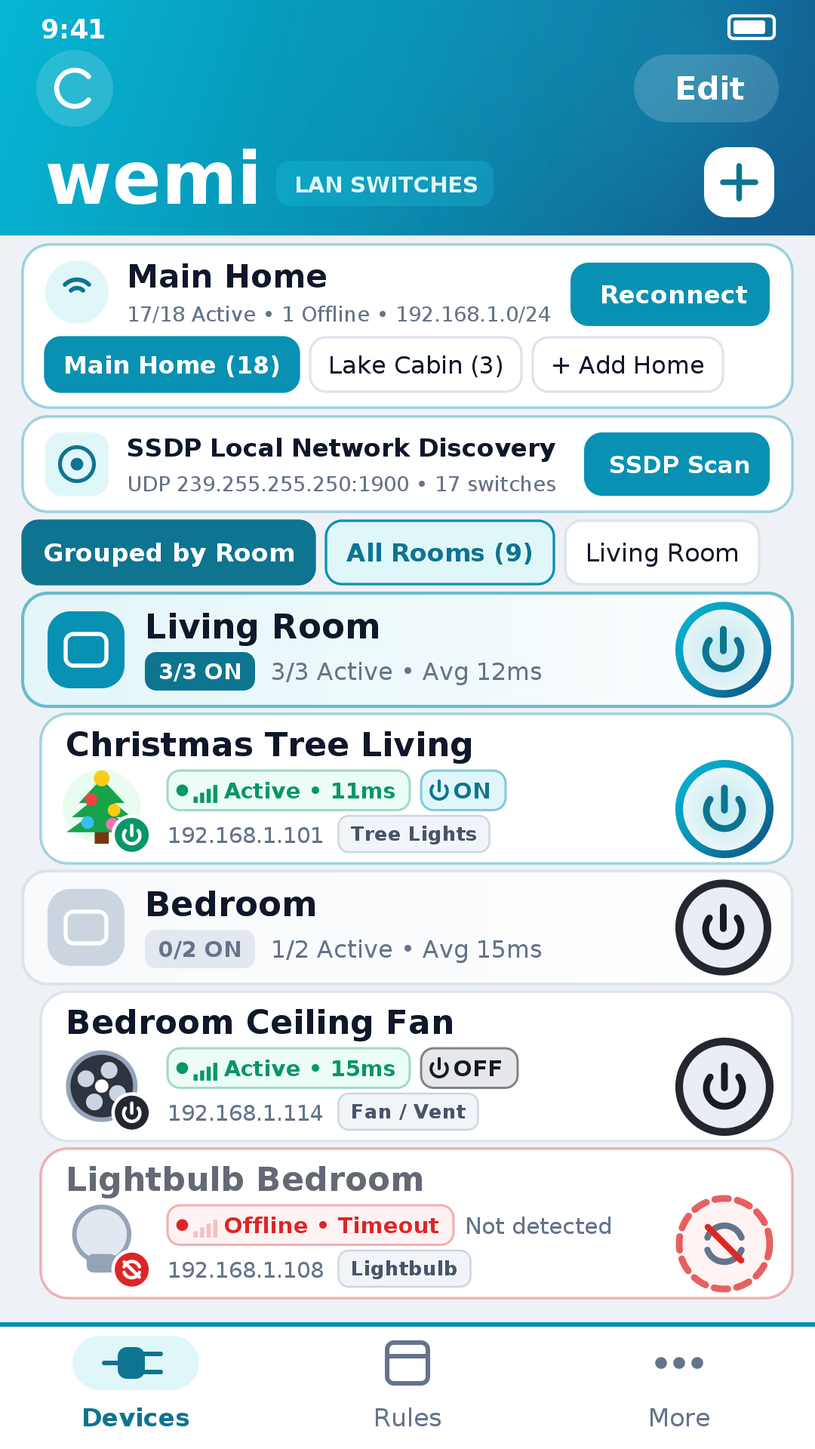
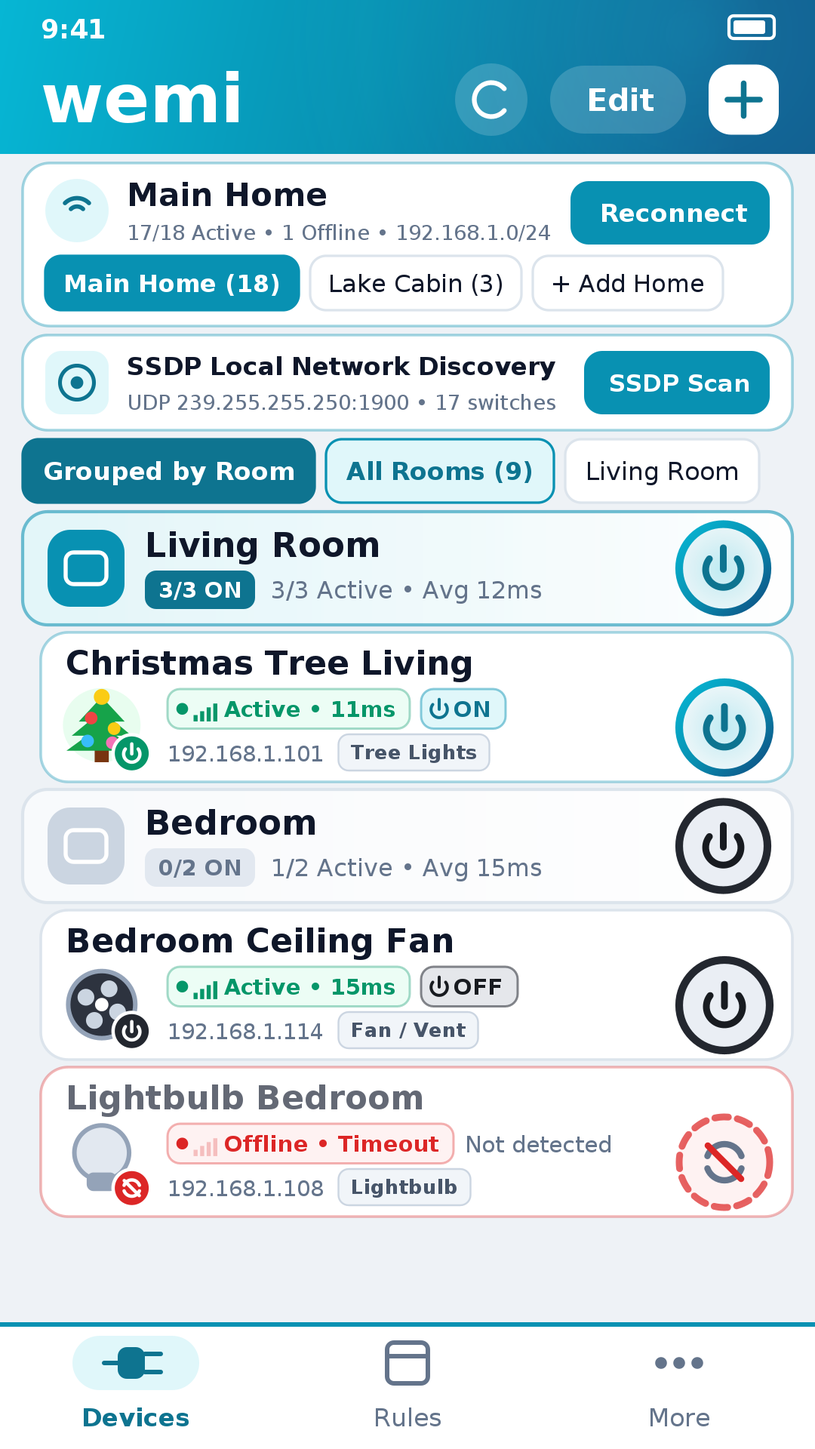
build: bump version to v23.0 and optimize UI header
- Increment version to v23.0 across documentation
- Refactor top header to a compact single-row layout
- Configure custom Robolectric dependency repo for unit tests

diff --git a/app/src/main/java/org/suppressingfire/wemi/ui/components/HeaderAndNav.kt b/app/src/main/java/org/suppressingfire/wemi/ui/components/HeaderAndNav.kt
@@ -116,77 +116,20 @@ fun TopHeader(
                 )
             }
             .windowInsetsPadding(WindowInsets.statusBars)
-            .padding(horizontal = 16.dp, vertical = 10.dp)
+            .padding(horizontal = 14.dp, vertical = 6.dp)
     ) {
-        // Top Row: Refresh button on left, TV Remote Mode + Edit pills on right
+        // Single compact row: "wemi" wordmark on left; Refresh, Edit/Done, and "+" buttons on right
         Row(
             modifier = Modifier.fillMaxWidth(),
             horizontalArrangement = Arrangement.SpaceBetween,
             verticalAlignment = Alignment.CenterVertically
         ) {
-            IconButton(
-                onClick = onRefreshClick,
-                modifier = Modifier
-                    .size(48.dp)
-                    .clip(CircleShape)
-                    .background(Color.White.copy(alpha = 0.14f))
-                    .testTag("refresh_devices_button")
-            ) {
-                Icon(
-                    imageVector = Icons.Default.Refresh,
-                    contentDescription = stringResource(R.string.action_refresh),
-                    tint = Color.White,
-                    modifier = Modifier
-                        .size(26.dp)
-                        .rotate(if (isRefreshing) rotation else 0f)
-                )
-            }
-
             Row(
                 verticalAlignment = Alignment.CenterVertically,
-                horizontalArrangement = Arrangement.spacedBy(8.dp)
-            ) {
-                Surface(
-                    shape = RoundedCornerShape(20.dp),
-                    color = if (isEditMode) Color.White else Color.White.copy(alpha = 0.16f),
-                    modifier = Modifier
-                        .minimumInteractiveComponentSize()
-                        .clip(RoundedCornerShape(20.dp))
-                        .clickable(onClick = onEditClick)
-                        .testTag("edit_devices_button")
-                ) {
-                    Box(
-                        contentAlignment = Alignment.Center,
-                        modifier = Modifier.padding(horizontal = 16.dp, vertical = 6.dp)
-                    ) {
-                        Text(
-                            text = if (isEditMode) stringResource(R.string.action_done) else stringResource(R.string.action_edit),
-                            color = if (isEditMode) WemoGreenBottom else Color.White,
-                            fontFamily = FontFamily.SansSerif,
-                            fontWeight = FontWeight.Medium,
-                            fontSize = 16.sp
-                        )
-                    }
-                }
-            }
-        }
-
-        Spacer(modifier = Modifier.height(6.dp))
-
-        // Second Row: "wemi" wordmark + subtitle on left, glowing cyan/white "+" button on right
-        Row(
-            modifier = Modifier
-                .fillMaxWidth()
-                .padding(start = 4.dp, end = 4.dp, bottom = 4.dp),
-            horizontalArrangement = Arrangement.SpaceBetween,
-            verticalAlignment = Alignment.CenterVertically
-        ) {
-            Row(
-                verticalAlignment = Alignment.Bottom,
                 modifier = Modifier
                     .clip(RoundedCornerShape(6.dp))
                     .clickable(onClick = onWordmarkClick)
-                    .padding(horizontal = 4.dp)
+                    .padding(horizontal = 4.dp, vertical = 2.dp)
                     .testTag("brand_wordmark_text")
             ) {
                 Text(
@@ -198,47 +141,78 @@ fun TopHeader(
                     color = Color.White,
                     fontFamily = FontFamily.SansSerif,
                     fontWeight = FontWeight.Bold,
-                    fontSize = 35.sp,
+                    fontSize = 32.sp,
                     letterSpacing = (-0.8).sp
                 )
-                Spacer(modifier = Modifier.width(10.dp))
-                Surface(
-                    color = Color(0x3322D3EE),
-                    shape = RoundedCornerShape(6.dp),
-                    modifier = Modifier.padding(bottom = 6.dp)
-                ) {
-                    Text(
-                        text = "LAN SWITCHES",
-                        color = Color(0xFFE0F7FA),
-                        fontFamily = FontFamily.SansSerif,
-                        fontWeight = FontWeight.SemiBold,
-                        fontSize = 10.sp,
-                        letterSpacing = 0.8.sp,
-                        modifier = Modifier.padding(horizontal = 7.dp, vertical = 3.dp)
-                    )
-                }
             }
 
-            Box(
-                modifier = Modifier
-                    .minimumInteractiveComponentSize()
-                    .clickable(onClick = onAddClick)
-                    .testTag("add_device_button"),
-                contentAlignment = Alignment.Center
+            Row(
+                verticalAlignment = Alignment.CenterVertically,
+                horizontalArrangement = Arrangement.spacedBy(6.dp)
             ) {
-                Surface(
-                    shape = RoundedCornerShape(10.dp),
-                    color = Color.White,
-                    shadowElevation = 2.dp,
-                    modifier = Modifier.size(34.dp)
+                IconButton(
+                    onClick = onRefreshClick,
+                    modifier = Modifier
+                        .minimumInteractiveComponentSize()
+                        .size(38.dp)
+                        .clip(CircleShape)
+                        .background(Color.White.copy(alpha = 0.16f))
+                        .testTag("refresh_devices_button")
                 ) {
-                    Box(contentAlignment = Alignment.Center) {
-                        Icon(
-                            imageVector = Icons.Default.Add,
-                            contentDescription = stringResource(R.string.action_add_device),
-                            tint = WemoGreenDark,
-                            modifier = Modifier.size(24.dp)
+                    Icon(
+                        imageVector = Icons.Default.Refresh,
+                        contentDescription = stringResource(R.string.action_refresh),
+                        tint = Color.White,
+                        modifier = Modifier
+                            .size(22.dp)
+                            .rotate(if (isRefreshing) rotation else 0f)
+                    )
+                }
+
+                Surface(
+                    shape = RoundedCornerShape(18.dp),
+                    color = if (isEditMode) Color.White else Color.White.copy(alpha = 0.16f),
+                    modifier = Modifier
+                        .minimumInteractiveComponentSize()
+                        .clip(RoundedCornerShape(18.dp))
+                        .clickable(onClick = onEditClick)
+                        .testTag("edit_devices_button")
+                ) {
+                    Box(
+                        contentAlignment = Alignment.Center,
+                        modifier = Modifier.padding(horizontal = 14.dp, vertical = 6.dp)
+                    ) {
+                        Text(
+                            text = if (isEditMode) stringResource(R.string.action_done) else stringResource(R.string.action_edit),
+                            color = if (isEditMode) WemoGreenBottom else Color.White,
+                            fontFamily = FontFamily.SansSerif,
+                            fontWeight = FontWeight.Medium,
+                            fontSize = 15.sp
                         )
+                    }
+                }
+
+                Box(
+                    modifier = Modifier
+                        .minimumInteractiveComponentSize()
+                        .clickable(onClick = onAddClick)
+                        .testTag("add_device_button"),
+                    contentAlignment = Alignment.Center
+                ) {
+                    Surface(
+                        shape = RoundedCornerShape(10.dp),
+                        color = Color.White,
+                        shadowElevation = 2.dp,
+                        modifier = Modifier.size(34.dp)
+                    ) {
+                        Box(contentAlignment = Alignment.Center) {
+                            Icon(
+                                imageVector = Icons.Default.Add,
+                                contentDescription = stringResource(R.string.action_add_device),
+                                tint = WemoGreenDark,
+                                modifier = Modifier.size(24.dp)
+                            )
+                        }
                     }
                 }
             }

diff --git a/scripts/GeneratePlayStoreAssets.java b/scripts/GeneratePlayStoreAssets.java
@@ -275,7 +275,7 @@ public class GeneratePlayStoreAssets {
     }
 
     private static int drawTopHeader(Graphics2D g, int w, double s, boolean isEdit) {
-        int headerH = (int) (104 * s);
+        int headerH = (int) (68 * s);
         LinearGradientPaint lg = new LinearGradientPaint(
             new Point2D.Double(0, 0),
             new Point2D.Double(w * 0.9, headerH),
@@ -301,45 +301,16 @@ public class GeneratePlayStoreAssets {
         fillRoundRect(g, w - 38 * s, 7 * s, 20 * s, 10 * s, 2 * s, null, C_WHITE, 1.4 * s);
         fillRoundRect(g, w - 36 * s, 9 * s, 14 * s, 6 * s, 1 * s, C_WHITE, null, 0);
 
-        // Row 1: Left Refresh circle button (48dp), Right Edit pill (NO TV toggle button!)
-        double yR1 = 22 * s;
-        double btnR = 17 * s;
-        double cxRef = 16 * s + btnR;
-        double cyRef = yR1 + btnR;
-        g.setColor(new Color(255, 255, 255, 38));
-        g.fill(new Ellipse2D.Double(cxRef - btnR, cyRef - btnR, btnR * 2, btnR * 2));
+        // Single compact row: 'wemi' wordmark on left; Refresh, Edit/Done, and white '+' button on right
+        double cy = 44 * s;
         g.setColor(C_WHITE);
-        g.setStroke(new BasicStroke((float) (2.2 * s), BasicStroke.CAP_ROUND, BasicStroke.JOIN_ROUND));
-        double ar = 8.0 * s;
-        g.draw(new Arc2D.Double(cxRef - ar, cyRef - ar, ar * 2, ar * 2, 40, 280, Arc2D.OPEN));
+        g.setFont(fBrand(30 * s, Font.BOLD));
+        g.drawString("wemi", (int) (18 * s), (int) (cy + 10 * s));
 
-        // Right Edit pill
-        double editW = 64 * s;
-        double editH = 30 * s;
-        double ex0 = w - 16 * s - editW;
-        double ey0 = cyRef - editH / 2.0;
-        fillRoundRect(g, ex0, ey0, editW, editH, 15 * s, isEdit ? C_WHITE : new Color(255, 255, 255, 42), null, 0);
-        g.setColor(isEdit ? C_SAPPHIRE_BOT : C_WHITE);
-        g.setFont(fUi(14.0 * s, Font.BOLD));
-        g.drawString(isEdit ? "Done" : "Edit", (int) (ex0 + 18 * s), (int) (ey0 + 20 * s));
-
-        // Row 2: 'wemi' wordmark + 'LAN SWITCHES' pill on left, white '+' button on right
-        double yR2 = 90 * s;
-        g.setColor(C_WHITE);
-        g.setFont(fBrand(32 * s, Font.BOLD));
-        g.drawString("wemi", (int) (20 * s), (int) yR2);
-
-        double px0 = 122 * s;
-        double py0 = yR2 - 19 * s;
-        fillRoundRect(g, px0, py0, 96 * s, 20 * s, 6 * s, new Color(0x22, 0xD3, 0xEE, 58), null, 0);
-        g.setColor(C_CYAN_SOFT);
-        g.setFont(fUi(9.5 * s, Font.BOLD));
-        g.drawString("LAN SWITCHES", (int) (px0 + 8 * s), (int) (py0 + 14 * s));
-
-        // White '+' button on right
+        // White '+' button on far right
         double addSz = 31 * s;
-        double ax0 = w - 18 * s - addSz;
-        double ay0 = yR2 - 25 * s;
+        double ax0 = w - 16 * s - addSz;
+        double ay0 = cy - addSz / 2.0;
         fillRoundRect(g, ax0, ay0, addSz, addSz, 10 * s, C_WHITE, null, 0);
         g.setColor(C_TEAL_DARK);
         g.setStroke(new BasicStroke((float) (2.5 * s), BasicStroke.CAP_ROUND, BasicStroke.JOIN_ROUND));
@@ -348,6 +319,27 @@ public class GeneratePlayStoreAssets {
         double arm = 7.2 * s;
         g.draw(new Line2D.Double(acx - arm, acy, acx + arm, acy));
         g.draw(new Line2D.Double(acx, acy - arm, acx, acy + arm));
+
+        // Edit / Done pill to the left of '+'
+        double editW = 60 * s;
+        double editH = 30 * s;
+        double ex0 = ax0 - 10 * s - editW;
+        double ey0 = cy - editH / 2.0;
+        fillRoundRect(g, ex0, ey0, editW, editH, 15 * s, isEdit ? C_WHITE : new Color(255, 255, 255, 42), null, 0);
+        g.setColor(isEdit ? C_SAPPHIRE_BOT : C_WHITE);
+        g.setFont(fUi(13.5 * s, Font.BOLD));
+        g.drawString(isEdit ? "Done" : "Edit", (int) (ex0 + 16 * s), (int) (ey0 + 20 * s));
+
+        // Refresh circle button to the left of Edit pill
+        double btnR = 16 * s;
+        double cxRef = ex0 - 10 * s - btnR;
+        double cyRef = cy;
+        g.setColor(new Color(255, 255, 255, 42));
+        g.fill(new Ellipse2D.Double(cxRef - btnR, cyRef - btnR, btnR * 2, btnR * 2));
+        g.setColor(C_WHITE);
+        g.setStroke(new BasicStroke((float) (2.1 * s), BasicStroke.CAP_ROUND, BasicStroke.JOIN_ROUND));
+        double ar = 7.5 * s;
+        g.draw(new Arc2D.Double(cxRef - ar, cyRef - ar, ar * 2, ar * 2, 40, 280, Arc2D.OPEN));
 
         return headerH;
     }

diff --git a/IMPLEMENTED.md b/IMPLEMENTED.md
@@ -1,7 +1,7 @@
 # WeMi Light Control — Implemented Features & Change Log (`IMPLEMENTED.md`)
 
 **Repository**: `MichaelRHead/WeMi-light-control` (`org.suppressingfire.wemi` / `com.aistudio.wemiswitch.kxpqzr`)  
-**Current Version**: `v22.0` (`versionCode = 22`)  
+**Current Version**: `v23.0` (`versionCode = 23`)  
 **Target Platforms**: Android Phones, Tablets, and Android TV (`UI_MODE_TYPE_TELEVISION` 10-foot D-Pad interface)
 
 Related documentation:
@@ -12,7 +12,7 @@ Related documentation:
 - [`LICENSE_GOVERNANCE.md`](LICENSE_GOVERNANCE.md) — Open-Source MIT License Parity, Minimal Permissive Dependency Policy (`Apache-2.0` AndroidX/Kotlin Only; Zero External HTTP/Font Bloat) & Brand/Trademark Governance *(Owned Exclusively by the Antigravity License & Brand Governance Agent)*
 - [`USER_GUIDE.md`](USER_GUIDE.md) — User Guide Index & Detailed Feature Guides ([`docs/user-guide/`](docs/user-guide/))
 - [`RELEASE_PROCESS.md`](RELEASE_PROCESS.md) & [`RELEASE_SIGN_OFF.md`](RELEASE_SIGN_OFF.md) — 5-Agent Autonomous Round-Robin Release Review Process & Live Sign-Off State Machine
-- [`docs/user-guide/release-notes.md`](docs/user-guide/release-notes.md) — User-Facing Google Play Store Release Notes (`v1.0` → `v22.0`)
+- [`docs/user-guide/release-notes.md`](docs/user-guide/release-notes.md) — User-Facing Google Play Store Release Notes (`v1.0` → `v23.0`)
 - [`UPCOMING_FEATURES.md`](UPCOMING_FEATURES.md) — Upcoming Features & Next-Iteration Roadmap
 - [`AGENTS.md`](AGENTS.md) — Architecture & Agent Guide
 - [`.agents/skills/wemi-release-coordinator/SKILL.md`](.agents/skills/wemi-release-coordinator/SKILL.md) — 5-Agent Autonomous Round-Robin Release Review & Sign-Off Coordinator Skill
@@ -36,6 +36,7 @@ Related documentation:
 
 | Landed (PST) | Version / Commit | Feature or Improvement | Primary Files |
 | :--- | :--- | :--- | :--- |
+| **2026-11-10 20:26 PST** | `v23.0` | **Compact Single-Row `TopHeader` (`HeaderAndNav.kt`): Moved `Refresh` & `Edit` Buttons Down Alongside the `wemi` Wordmark & `+` Button and Removed Redundant `"LAN SWITCHES"` Badge to Maximize Vertical Screen Space** | [`HeaderAndNav.kt`](app/src/main/java/org/suppressingfire/wemi/ui/components/HeaderAndNav.kt), [`scripts/GeneratePlayStoreAssets.java`](scripts/GeneratePlayStoreAssets.java), [`UX_DESIGN.md`](UX_DESIGN.md), [`docs/user-guide/release-notes.md`](docs/user-guide/release-notes.md), [`play_store_assets/RELEASE_NOTES.txt`](play_store_assets/RELEASE_NOTES.txt) |
 | **2026-11-10 13:19 PST** | `v22.0` | **Mandatory Agent Commit Description Attribution Skill (`agent-commit-attribution`), Helper & Hook Validator Scripts (`commit_as_agent.sh`, `validate_commit_msg.sh`) & Attributed Release State-Machine Commits (`scripts/advance_release_turn.sh`)** | [`.agents/skills/agent-commit-attribution/SKILL.md`](.agents/skills/agent-commit-attribution/SKILL.md), [`.agents/skills/agent-commit-attribution/scripts/commit_as_agent.sh`](.agents/skills/agent-commit-attribution/scripts/commit_as_agent.sh), [`.agents/skills/agent-commit-attribution/scripts/validate_commit_msg.sh`](.agents/skills/agent-commit-attribution/scripts/validate_commit_msg.sh), [`scripts/advance_release_turn.sh`](scripts/advance_release_turn.sh), [`AGENTS.md`](AGENTS.md), [`RELEASE_PROCESS.md`](RELEASE_PROCESS.md), [`.agents/skills/multi-agent-git-sync/SKILL.md`](.agents/skills/multi-agent-git-sync/SKILL.md) |
 | **2026-11-10 13:06 PST** | `v22.0` (`19247b4`) | **Multi-Agent Anti-Stomp Sync: Removed Orphaned `res/font/*.ttf` Files Left by AI Studio Sync, Restored `97d422e` Minimal-Dependency & Zero-`OkHttp`/`pywemo` Governance Gates (`LicenseAndBrandGovernanceTest.kt`), Updated `LICENSE_GOVERNANCE.md` & `wemi-license-governance` for Pure `MIT` + `Apache-2.0` Runtime, and Restored `+x` Script Permissions (`30/30` Passing)** | [`LicenseAndBrandGovernanceTest.kt`](app/src/test/java/org/suppressingfire/wemi/LicenseAndBrandGovernanceTest.kt), [`MoreScreen.kt`](app/src/main/java/org/suppressingfire/wemi/ui/screens/MoreScreen.kt), [`LICENSE_GOVERNANCE.md`](LICENSE_GOVERNANCE.md), [`.agents/skills/wemi-license-governance/SKILL.md`](.agents/skills/wemi-license-governance/SKILL.md), [`docs/user-guide/more-and-tv-mode.md`](docs/user-guide/more-and-tv-mode.md), [`docs/user-guide/release-notes.md`](docs/user-guide/release-notes.md), [`gradlew`](gradlew), [`scripts/advance_release_turn.sh`](scripts/advance_release_turn.sh), [`scripts/await_release_turn.sh`](scripts/await_release_turn.sh) |
 | **2026-11-10 12:52 PST** | `v22.0` (`b458fca`, `084def5`) | **Replaced Custom `Comfortaa` & `Work Sans` Font Families Across All UI Screens & Play Store Asset Generator with Platform `FontFamily.SansSerif` (`Type.kt`)** | [`Type.kt`](app/src/main/java/org/suppressingfire/wemi/ui/theme/Type.kt), [`MainActivity.kt`](app/src/main/java/org/suppressingfire/wemi/MainActivity.kt), [`MoreScreen.kt`](app/src/main/java/org/suppressingfire/wemi/ui/screens/MoreScreen.kt), [`DevicesTabScreen.kt`](app/src/main/java/org/suppressingfire/wemi/ui/screens/DevicesTabScreen.kt), [`RulesScreen.kt`](app/src/main/java/org/suppressingfire/wemi/ui/screens/RulesScreen.kt), [`scripts/GeneratePlayStoreAssets.java`](scripts/GeneratePlayStoreAssets.java), [`play_store_assets/`](play_store_assets/) |
@@ -91,6 +92,13 @@ Related documentation:
 ---
 
 ## 2. Detailed Change Log (Newest to Oldest)
+
+### [2026-11-10 20:26 PST] — Compact Single-Row `TopHeader` (`HeaderAndNav.kt`): Moved `Refresh` & `Edit` Alongside `wemi` Wordmark & Removed `"LAN SWITCHES"` Badge (`v23.0`)
+- **Single-Row Top Header Consolidation ([`HeaderAndNav.kt`](app/src/main/java/org/suppressingfire/wemi/ui/components/HeaderAndNav.kt), [`scripts/GeneratePlayStoreAssets.java`](scripts/GeneratePlayStoreAssets.java))**:
+  - Removed the redundant `"LAN SWITCHES"` subtitle badge next to the `wemi` wordmark and moved the `Refresh` (`refresh_devices_button`) and `Edit` / `Done` (`edit_devices_button`) controls down into the same horizontal header row alongside the `wemi` wordmark (`brand_wordmark_text`) and `+` button (`add_device_button`).
+  - Reclaims ~54dp of vertical screen real estate above the fold on phones and tablets while preserving all `48.dp` `minimumInteractiveComponentSize()` accessibility touch targets and semantic `testTag` identifiers, and regenerated all 21 Play Store & in-app PNG screenshots to match.
+
+---
 
 ### [2026-11-10 13:19 PST] — Mandatory Agent Commit Description Attribution Skill (`agent-commit-attribution`), Helper/Hook Scripts & Attributed Release Commits (`v22.0`)
 - **Shared `agent-commit-attribution` Skill & Validator/Helper Scripts ([`.agents/skills/agent-commit-attribution/SKILL.md`](.agents/skills/agent-commit-attribution/SKILL.md), [`commit_as_agent.sh`](.agents/skills/agent-commit-attribution/scripts/commit_as_agent.sh), [`validate_commit_msg.sh`](.agents/skills/agent-commit-attribution/scripts/validate_commit_msg.sh))**:

diff --git a/docs/user-guide/release-notes.md b/docs/user-guide/release-notes.md
@@ -4,17 +4,18 @@
 
 Welcome to the official user-facing **Release Notes** for **WeMi Light Control** (`com.aistudio.wemiswitch.kxpqzr`) on Google Play for Android Phones, Tablets, and Android TV.
 
-Unlike our developer engineering log ([`IMPLEMENTED.md`](../../IMPLEMENTED.md)), this guide provides a clear, high-level summary of the **major user-facing features, visual improvements, and reliability upgrades** introduced in each Google Play Store release—from our latest release (**`v22.0`**) all the way back to **`v1.0`**.
+Unlike our developer engineering log ([`IMPLEMENTED.md`](../../IMPLEMENTED.md)), this guide provides a clear, high-level summary of the **major user-facing features, visual improvements, and reliability upgrades** introduced in each Google Play Store release—from our latest release (**`v23.0`**) all the way back to **`v1.0`**.
 
 For step-by-step instructions on using any feature mentioned below, visit the **[WeMi Light Control User Guide (`USER_GUIDE.md`)](../../USER_GUIDE.md)**.
 
 ---
 
-## Quick Release Summary (`v1.0` → `v22.0`)
+## Quick Release Summary (`v1.0` → `v23.0`)
 
 | Version | Play Store `versionCode` | Release Date | Headline User-Facing Additions |
 | :--- | :---: | :--- | :--- |
-| **[`v22.0`](#version-220-versioncode--22--november-10-2026)** | `22` | Nov 10, 2026 | Refreshed Google Play Store & in-app visual showcase across Phone, 7"/10" Tablets & Android TV matching the live Ocean Teal, Electric Cyan & Deep Sapphire UI, auto-shrinking switch titles & 3-state power/reconnect rings |
+| **[`v23.0`](#version-230-versioncode--23--november-10-2026)** | `23` | Nov 10, 2026 | Compact single-row top header (`wemi` + `Refresh`, `Edit` & `+` on one line, removing the redundant `"LAN SWITCHES"` label) for more room & switch space on screen |
+| **[`v22.0`](#version-220-versioncode--22--november-10-2026)** | `22` | Nov 10, 2026 | Refreshed Google Play Store & in-app visual showcase across Phone, 7"/10" Tablets & Android TV matching the live Ocean Teal, Electric Cyan & Deep Sapphire UI, plus streamlined `MIT` + `Apache-2.0` runtime |
 | **[`v21.0`](#version-210-versioncode--21--november-910-2026)** | `21` | Nov 9–10, 2026 | Native Phone/Tablet vs. Android TV form-factor layouts, in-app Open Source MIT & Third-Party Notices card on the **More** tab, `org.suppressingfire.wemi` architecture & neutral hardware branding |
 | **[`v20.0`](#version-200-versioncode--20--november-9-2026)** | `20` | Nov 9, 2026 | Unified 9-port self-healing reconnect, cellular-safe Wi-Fi binding, 3-tier hardware identity matching, CamelCase/`Ensuite` room grouping & instant offline reconnect recovery |
 | **[`v19.0`](#version-190-versioncode--19--november-9-2026)** | `19` | Nov 9, 2026 | Dedicated Troubleshooting & Telemetry Sharing Guide (`wemi-telemetry-latest.txt`) for 1-tap support diagnostics |
@@ -41,6 +42,11 @@ For step-by-step instructions on using any feature mentioned below, visit the **
 ---
 
 ## Release-by-Release Highlights (Newest to Oldest)
+
+### Version 23.0 (`versionCode = 23`) — November 10, 2026
+- **Compact Single-Row Top Header for More Screen Space**: Moved the **Refresh** and **Edit** buttons down onto the same header row as the `wemi` wordmark and `+` button—replacing the static `"LAN SWITCHES"` badge—to save vertical space and fit more rooms and switches above the fold on phones and tablets.
+
+---
 
 ### Version 22.0 (`versionCode = 22`) — November 10, 2026
 - **Refreshed Google Play Store & In-App Visual Showcase**: Updated all 21 Google Play Store screenshots, banners, icons, and in-app preview graphics (`More` tab & Android TV Leanback banner) across Phone (`1080×1920`), 7-Inch Tablet (`1200×1920`), 10-Inch Tablet (`1600×2560`), and 10-Foot Android TV (`1920×1080` & `1280×720`) to match the live **Ocean Teal (`#0891B2`), Electric Cyan (`#06B6D4`), and Deep Sapphire (`#0F4C81`)** interface, full-width auto-shrinking switch titles (`AutoShrinkSwitchName`), 3-state hardware icons (`ON`, `OFF` Standby `#23272F`, and Offline `Disconnected` `#DC2626`), top-first dimmer controls, and native Phone/Tablet vs. Android TV headers without manual Phone/TV toggle buttons.

diff --git a/UX_DESIGN.md b/UX_DESIGN.md
@@ -19,7 +19,7 @@ Related documentation:
 
 ## 1. Executive Summary & UX Philosophy
 
-**WeMi Light Control** (`org.suppressingfire.wemi` / `com.aistudio.wemiswitch.kxpqzr`, `v22.0`) reimagines the tactile, unmistakable physical affordances of a dedicated smart-home switch interface (Ocean Teal `#0891B2`, Electric Cyan `#06B6D4`, and Deep Sapphire `#0F4C81` header gradient, crisp white device rows, glowing cyan power rings, and skeuomorphic appliance illustrations) for Belkin's discontinued smart switch platform while pairing them with modern Android 15/16 responsiveness, zero-cloud local LAN privacy, and WCAG-grade accessibility.
+**WeMi Light Control** (`org.suppressingfire.wemi` / `com.aistudio.wemiswitch.kxpqzr`, `v23.0`) reimagines the tactile, unmistakable physical affordances of a dedicated smart-home switch interface (Ocean Teal `#0891B2`, Electric Cyan `#06B6D4`, and Deep Sapphire `#0F4C81` header gradient, crisp white device rows, glowing cyan power rings, and skeuomorphic appliance illustrations) for Belkin's discontinued smart switch platform while pairing them with modern Android 15/16 responsiveness, zero-cloud local LAN privacy, and WCAG-grade accessibility.
 
 Smart-home control apps fail when they treat physical wall switches like generic cloud database rows. Our UX design is anchored on four core principles:
 1. **Sub-Frame Tactile Responsiveness (`<16ms`)**: Tapping a light switch in the app must feel as instantaneous as flipping a physical paddle on the wall, backed by optimistic state projection and `1200ms` UPnP GENA echo suppression.
@@ -33,14 +33,14 @@ Smart-home control apps fail when they treat physical wall switches like generic
 
 ### 2.1 Primary Phone & Tablet Navigation (`HeaderAndNav.kt`)
 
-WeMi Light Control uses a flat, predictable 3-tab bottom `NavigationBar` (`BottomNavigationBar`) paired with a contextual top header (`TopHeader`):
+WeMi Light Control uses a flat, predictable 3-tab bottom `NavigationBar` (`BottomNavigationBar`) paired with a compact single-row top header (`TopHeader`):
 
-1. **Top Header (`TopHeader`)**:
-   - **Brand Wordmark**: Displays the iconic `wemi` / `wemo` wordmark (`header_wordmark_toggle`).
-   - **Contextual Primary Actions**:
-     - **Edit / Done Toggle (`edit_mode_button`)**: Switches the device list between normal operation and management mode (exposing inline reorder, `Edit`, and `Delete` actions).
+1. **Compact Single-Row Top Header (`TopHeader`)**:
+   - **Brand Wordmark**: Displays the `wemi` / `wemo` wordmark (`brand_wordmark_text`) on the left, omitting redundant static subtitle pills (`"LAN SWITCHES"`) so all top-bar actions fit on a single compact row and maximize vertical screen space for room and switch cards.
+   - **Inline Action Cluster (Right)**:
+     - **Refresh / SSDP Scan Button (`refresh_devices_button`)**: Launches the live `SsdpScannerModal` and triggers background `GetBinaryState` verification across all saved switches.
+     - **Edit / Done Toggle (`edit_devices_button`)**: Switches the device list between normal operation and management mode (exposing inline reorder, `Edit`, and `Delete` actions).
      - **Add Button (`add_device_button`)**: Opens `AddOrEditDeviceDialog` on the `Devices` tab or `AddRuleDialog` on the `Rules` tab.
-     - **Refresh / SSDP Scan Button (`refresh_button`)**: Launches the live `SsdpScannerModal` and triggers background `GetBinaryState` verification across all saved switches.
 
 2. **Wi-Fi Home Context Bar (`WifiHomeBar.kt`)**:
    - Situated immediately below the top header on the `Devices` tab, providing persistent awareness of the active Wi-Fi home profile (`"My Home"` vs. `"Main Home"` in Demo Showroom Mode), live online/offline switch counts, a one-tap **`Reconnect`** button, and a horizontally scrollable chip strip (`Home` chips, `Add Home`, and `Reset`).
